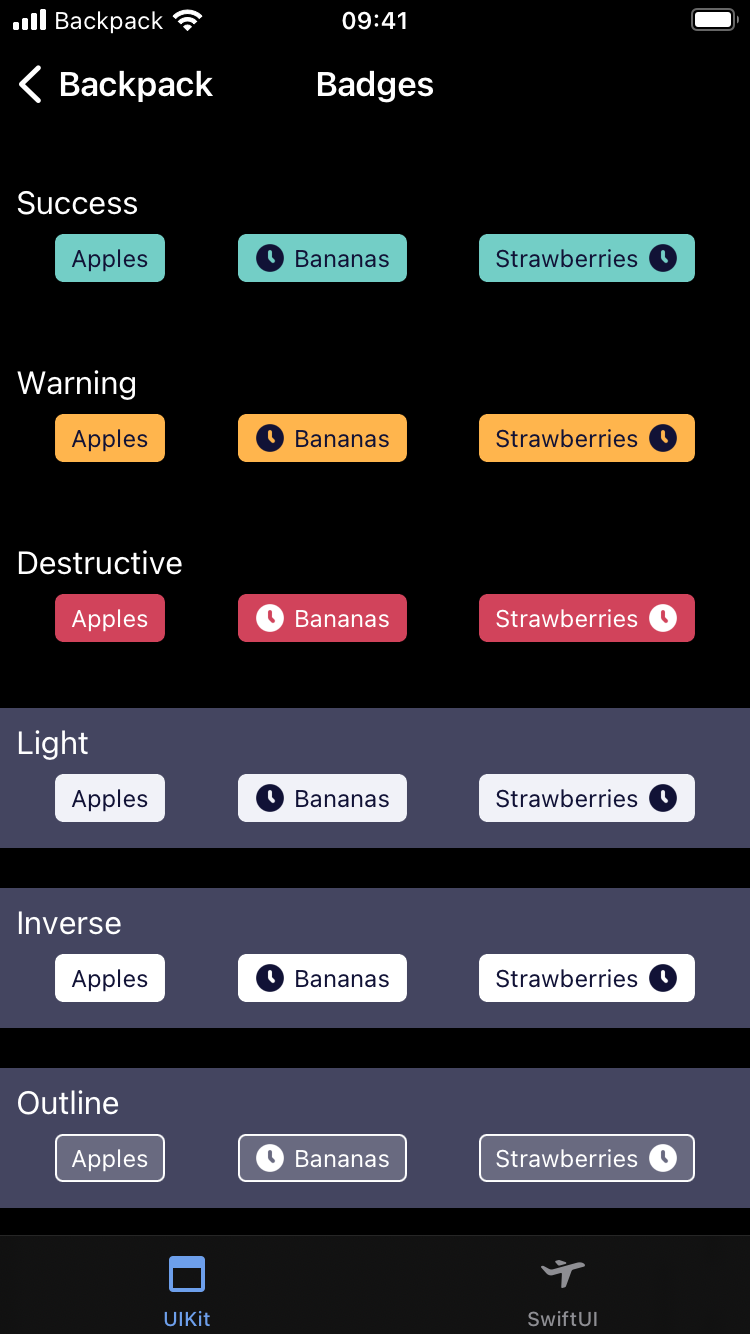
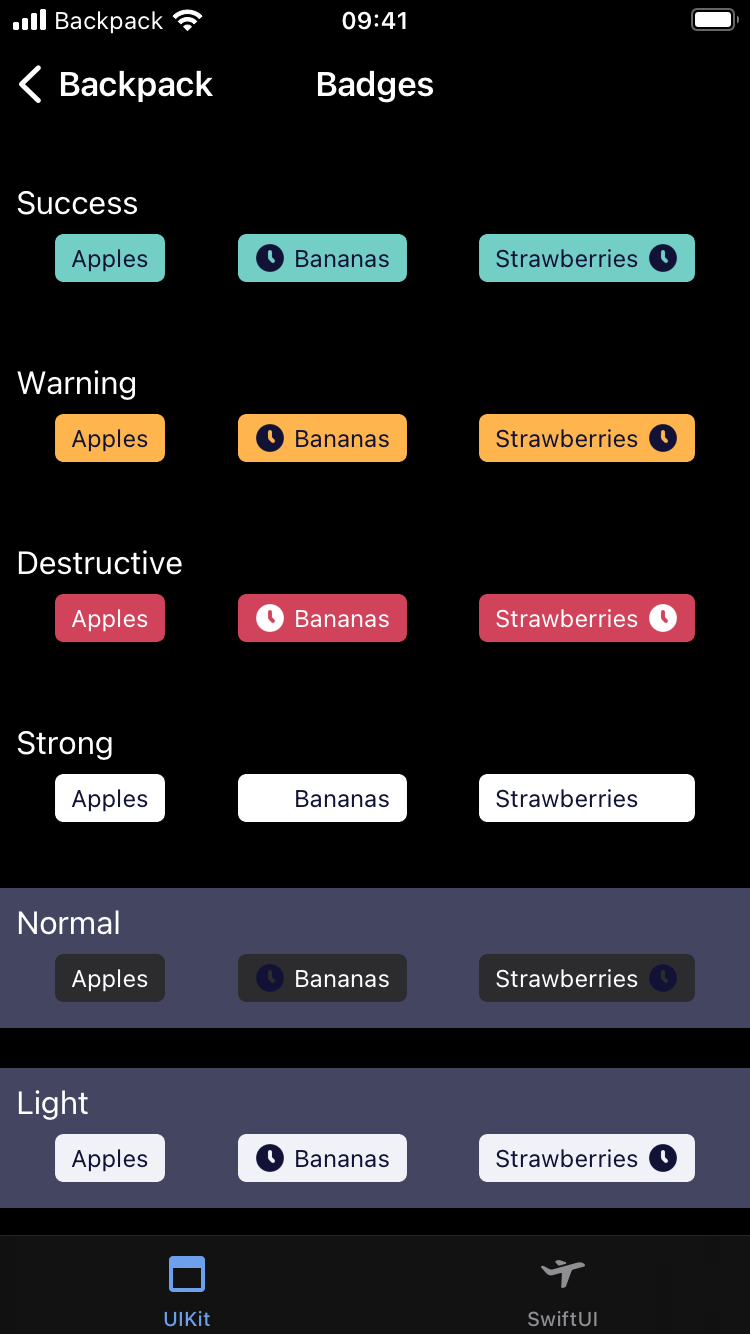
add snapshots for new types

diff --git a/Backpack/Tests/SnapshotTests/BPKBadgeSnapshotTest.swift b/Backpack/Tests/SnapshotTests/BPKBadgeSnapshotTest.swift
@@ -44,7 +44,7 @@ class BPKBadgeSnapshotTest: FBSnapshotTestCase {
         parentView.translatesAutoresizingMaskIntoConstraints = false
         parentView.addSubview(stackView)
 
-        let badges = [BPKBadgeType.light, .inverse, .outline, .success, .warning, .destructive]
+        let badges = [BPKBadgeType.light, .inverse, .outline, .success, .warning, .destructive, .normal, .strong]
             .map { BPKBadge(type: $0, icon: icon, message: "Backpack rocks!") }
         badges.forEach(stackView.addArrangedSubview(_:))
         NSLayoutConstraint.activate([
